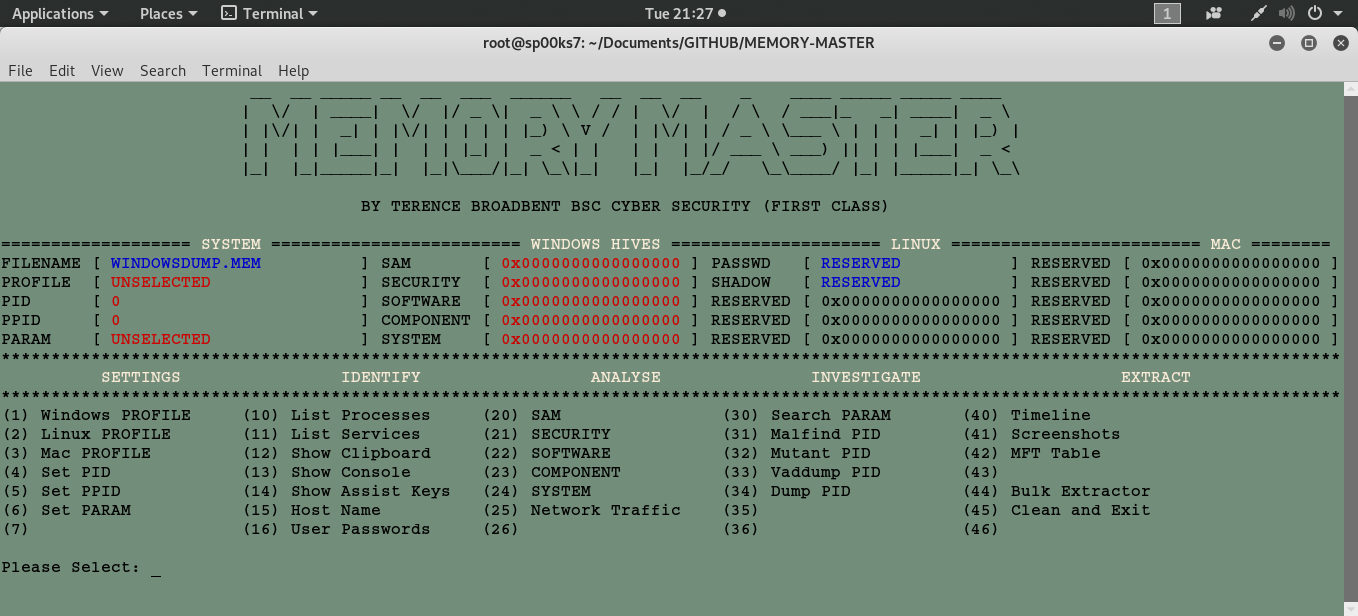
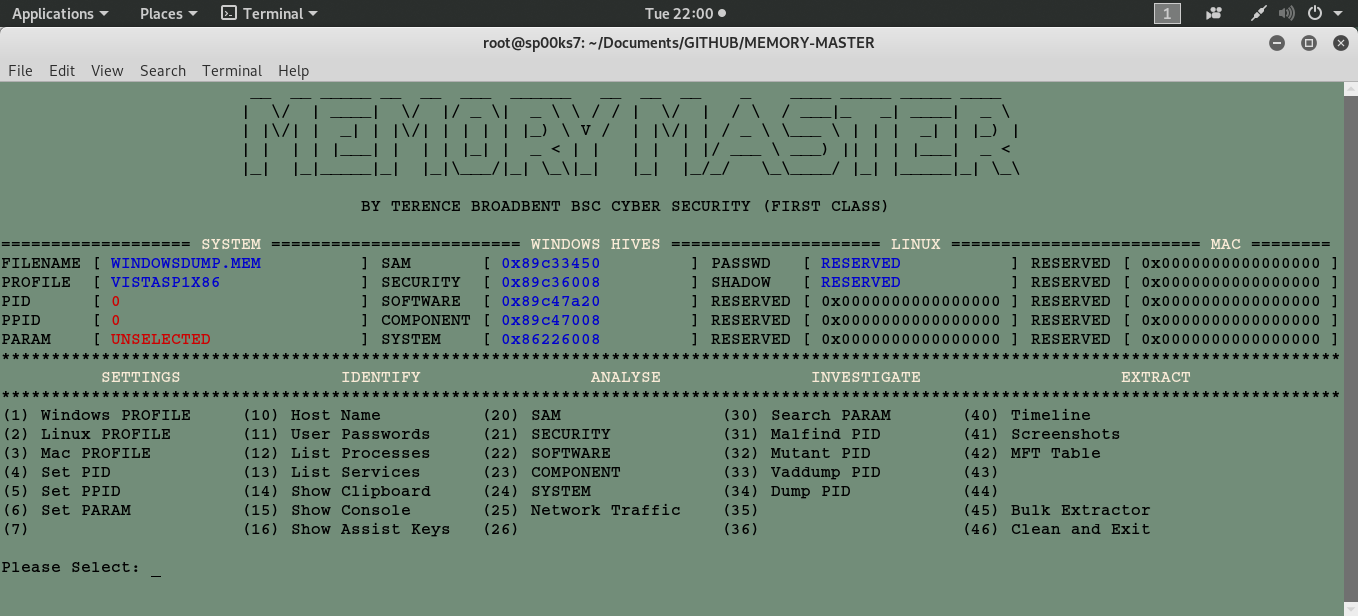
changes

diff --git a/memory_master.py b/memory_master.py
@@ -208,13 +208,13 @@ REG = 0
 # -------------------------------------------------------------------------------------
 
 menu = {}
-menu['(1)']="Windows PROFILE	(10) List Processes	(20) SAM		(30) Search PARAM	(40) Timeline"
-menu['(2)']="Linux PROFILE	(11) List Services	(21) SECURITY		(31) Malfind PID	(41) Screenshots"
-menu['(3)']="Mac PROFILE\t	(12) Show Clipboard	(22) SOFTWARE		(32) Mutant PID		(42) MFT Table"
-menu['(4)']="Set PID		(13) Show Console	(23) COMPONENT		(33) Vaddump PID	(43) " 
-menu['(5)']="Set PPID		(14) Show Assist Keys	(24) SYSTEM		(34) Dump PID		(44) Bulk Extractor"
-menu['(6)']="Set PARAM		(15) Host Name		(25) Network Traffic	(35) 			(45) Clean and Exit"
-menu['(7)']="			(16) User Passwords	(26) 			(36)			(46)"
+menu['(1)']="Windows PROFILE	(10) Host Name		(20) SAM		(30) Search PARAM	(40) Timeline"
+menu['(2)']="Linux PROFILE	(11) User Passwords	(21) SECURITY		(31) Malfind PID	(41) Screenshots"
+menu['(3)']="Mac PROFILE\t	(12) List Processes	(22) SOFTWARE		(32) Mutant PID		(42) MFT Table"
+menu['(4)']="Set PID		(13) List Services	(23) COMPONENT		(33) Vaddump PID	(43) " 
+menu['(5)']="Set PPID		(14) Show Clipboard	(24) SYSTEM		(34) Dump PID		(44) "
+menu['(6)']="Set PARAM		(15) Show Console	(25) Network Traffic	(35) 			(45) Bulk Extractor"
+menu['(7)']="			(16) Show Assist Keys	(26) 			(36)			(46) Clean and Exit"
 
 
 # -------------------------------------------------------------------------------------
@@ -386,11 +386,40 @@ while True:
 # AUTHOR  : Terence Broadbent                                                    
 # CONTRACT: GitHub
 # Version : 1.0
-# Details : Menu option selected - Show running processes.
+# Details : Menu option selected - Print hostname.
 # Modified: N/A
 # -------------------------------------------------------------------------------------
 
    if selection =='10':
+      print ""
+      os.system("volatility -f " + fileName + PRO + " printkey -o " + SYS + " -K 'ControlSet001\Control\ComputerName\ComputerName'")
+      raw_input("\nPlease any key to continue...")
+
+# ------------------------------------------------------------------------------------- 
+# AUTHOR  : Terence Broadbent                                                    
+# CONTRACT: GitHub
+# Version : 1.0
+# Details : Menu option selected - Dump SAM file hashes.
+# Modified: N/A
+# -------------------------------------------------------------------------------------
+
+   if selection =='11':
+      print ""
+      if (SAM == "0x0000000000000000") or (SYS == "0x0000000000000000"):
+         print colored("Missing HIVE - its not possible to extract the hashes...",'white')	
+      else:
+         os.system("volatility -f " + fileName + PRO + " hashdump -y " + SYS + " -s " + SAM)
+      raw_input("\nPlease any key to continue...")
+
+# ------------------------------------------------------------------------------------- 
+# AUTHOR  : Terence Broadbent                                                    
+# CONTRACT: GitHub
+# Version : 1.0
+# Details : Menu option selected - Show running processes.
+# Modified: N/A
+# -------------------------------------------------------------------------------------
+
+   if selection =='12':
       os.system("volatility -f " + fileName + PRO + " psscan | more")
       os.system("volatility -f " + fileName + PRO + " psscan --output greptext > F1.txt")
       os.system("tail -n +2 F1.txt > F2.txt")
@@ -448,7 +477,7 @@ while True:
 # Modified: N/A
 # -------------------------------------------------------------------------------------
 
-   if selection =='11':
+   if selection =='13':
       os.system("volatility -f " + fileName + PRO + " svcscan | more")
       raw_input("\nPlease any key to continue...")
 
@@ -460,7 +489,7 @@ while True:
 # Modified: N/A
 # -------------------------------------------------------------------------------------
 
-   if selection =='12':
+   if selection =='14':
       os.system("volatility -f " + fileName + PRO + " clipboard")
       raw_input("\nPlease any key to continue...")
 
@@ -472,7 +501,7 @@ while True:
 # Modified: N/A
 # -------------------------------------------------------------------------------------
 
-   if selection =='13':
+   if selection =='15':
       os.system("volatility -f " + fileName + PRO + " consoles")
       raw_input("\nPlease any key to continue...")
 
@@ -484,36 +513,9 @@ while True:
 # Modified: N/A
 # -------------------------------------------------------------------------------------
 
-   if selection =='14':
+   if selection =='16':
       os.system("volatility -f " + fileName + PRO + " userassist")
       raw_input("\nPlease any key to continue...")
-
-# ------------------------------------------------------------------------------------- 
-# AUTHOR  : Terence Broadbent                                                    
-# CONTRACT: GitHub
-# Version : 1.0
-# Details : Menu option selected - Print hostname.
-# Modified: N/A
-# -------------------------------------------------------------------------------------
-
-   if selection =='15':
-      os.system("volatility -f " + fileName + PRO + " printkey -o " + SYS + " -K ControlSet001\Control\ComputerName\ComputerName")
-      raw_input("\nPlease any key to continue...")
-
-# ------------------------------------------------------------------------------------- 
-# AUTHOR  : Terence Broadbent                                                    
-# CONTRACT: GitHub
-# Version : 1.0
-# Details : Menu option selected - Dump SAM file hashes.
-# Modified: N/A
-# -------------------------------------------------------------------------------------
-
-   if selection =='16':
-      if (SAM == "0x0000000000000000") or (SYS == "0x0000000000000000"):
-         print colored("Missing HIVE - its not possible to extract the hashes...",'white')	
-      else:
-         os.system("volatility -f " + fileName + PRO + " hashdump -y " + SYS + " -s " + SAM)
-      raw_input("Please any key to continue...")
 
 # ------------------------------------------------------------------------------------- 
 # AUTHOR  : Terence Broadbent                                                    
@@ -723,7 +725,7 @@ while True:
 # Modified: N/A
 # -------------------------------------------------------------------------------------
 
-   if selection =='44':
+   if selection =='45':
       os.system("bulk_extractor -o bulkOut " + fileName)
       print "\nBulk extraction is now available in directory bulkOut...\n"
       raw_input("Please any key to continue...")
@@ -736,7 +738,7 @@ while True:
 # Modified: N/A
 # -------------------------------------------------------------------------------------
 
-   if selection =='45':
+   if selection =='46':
       if os.path.exists('timeline.txt'):
          os.remove('timeline.txt')
       if os.path.exists('mfttable.txt'):
